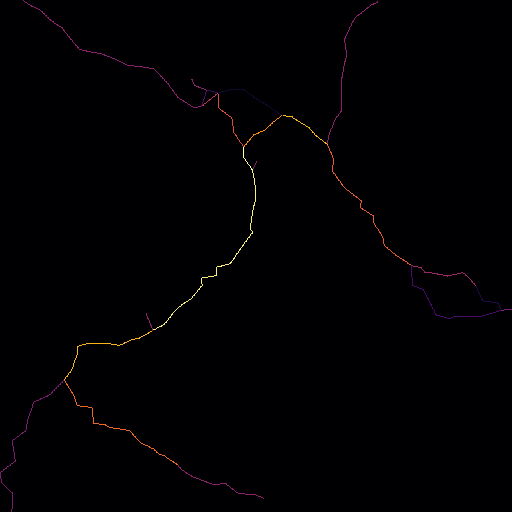
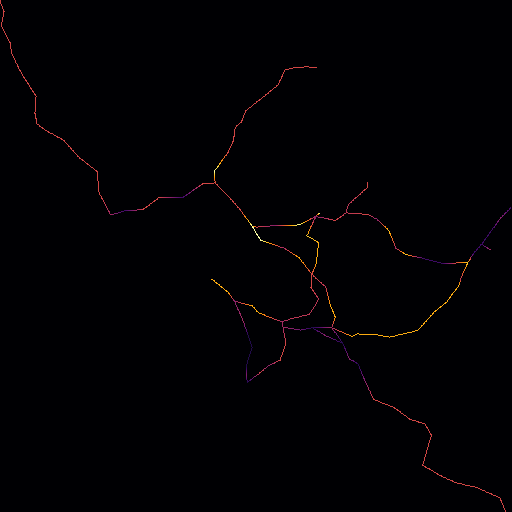
Fix adjacency matrix miscalculation in alpha-model for road network

diff --git a/src/geometry/graph.cpp b/src/geometry/graph.cpp
@@ -244,16 +244,26 @@ Graph Graph::remove_orphan_points()
   return graph_out;
 }
 
-void Graph::to_array(Array &array, Vec4<float> bbox)
+void Graph::to_array(Array &array, Vec4<float> bbox, bool color_by_edge_weight)
 {
-  for (std::size_t k = 0; k < this->get_nedges(); k++)
-  {
-    Point p1 = this->points[this->edges[k][0]];
-    Point p2 = this->points[this->edges[k][1]];
-
-    Path path = Path({p1, p2});
-    path.to_array(array, bbox);
-  }
+  if (color_by_edge_weight)
+    for (std::size_t k = 0; k < this->get_nedges(); k++)
+    {
+      Point p1 = this->points[this->edges[k][0]];
+      Point p2 = this->points[this->edges[k][1]];
+      p1.v = this->weights[this->edges[k][0]];
+      p2.v = this->weights[this->edges[k][1]];
+      Path path = Path({p1, p2});
+      path.to_array(array, bbox);
+    }
+  else
+    for (std::size_t k = 0; k < this->get_nedges(); k++)
+    {
+      Point p1 = this->points[this->edges[k][0]];
+      Point p2 = this->points[this->edges[k][1]];
+      Path  path = Path({p1, p2});
+      path.to_array(array, bbox);
+    }
 }
 
 void Graph::to_array_fractalize(Array      &array,

diff --git a/examples/ex_generate_network_alpha_model/ex_generate_network_alpha_model.cpp b/examples/ex_generate_network_alpha_model/ex_generate_network_alpha_model.cpp
@@ -7,7 +7,7 @@
 int main(void)
 {
   hmap::Vec2<int> shape = {256, 256};
-  int             seed = 1;
+  int             seed = 0;
 
   hmap::Array z = hmap::fbm_perlin(shape, {4.f, 4.f}, seed);
   z.to_png("ex_generate_network_alpha_model0.png", hmap::cmap::terrain, true);
@@ -29,6 +29,8 @@ int main(void)
                                                            ndummy);
 
   network.to_csv("nodes.csv", "adj.csv");
+
+  // network.set_values(1.f);
 
   // graph view, no bounding box, color by edge weight
   network.to_png("ex_generate_network_alpha_model1.png");

diff --git a/src/roads/alpha_model.cpp b/src/roads/alpha_model.cpp
@@ -85,7 +85,7 @@ Graph generate_network_alpha_model(std::vector<float> xc,
         float dz = graph.points[i].v - graph.points[j].v;
         graph.adjacency_matrix[{i, j}] += std::abs(dz) * dz_weight;
         graph.adjacency_matrix[{i, j}] += local_weight[i] + local_weight[j];
-        graph.adjacency_matrix[{i, j}] = graph.adjacency_matrix[{i, j}];
+        graph.adjacency_matrix[{j, i}] = graph.adjacency_matrix[{i, j}];
       }
     }
 

diff --git a/include/highmap/geometry.hpp b/include/highmap/geometry.hpp
@@ -580,8 +580,11 @@ public:
    *
    * @param array Input array.
    * @param bbox Bounding box of the array.
+   * @param color_by_edge_weight Color by edge weight or by node values else.
    */
-  void to_array(Array &array, Vec4<float> bbox);
+  void to_array(Array      &array,
+                Vec4<float> bbox,
+                bool        color_by_edge_weight = true);
 
   /**
    * @brief Fractalize graph edge and project to an array.
